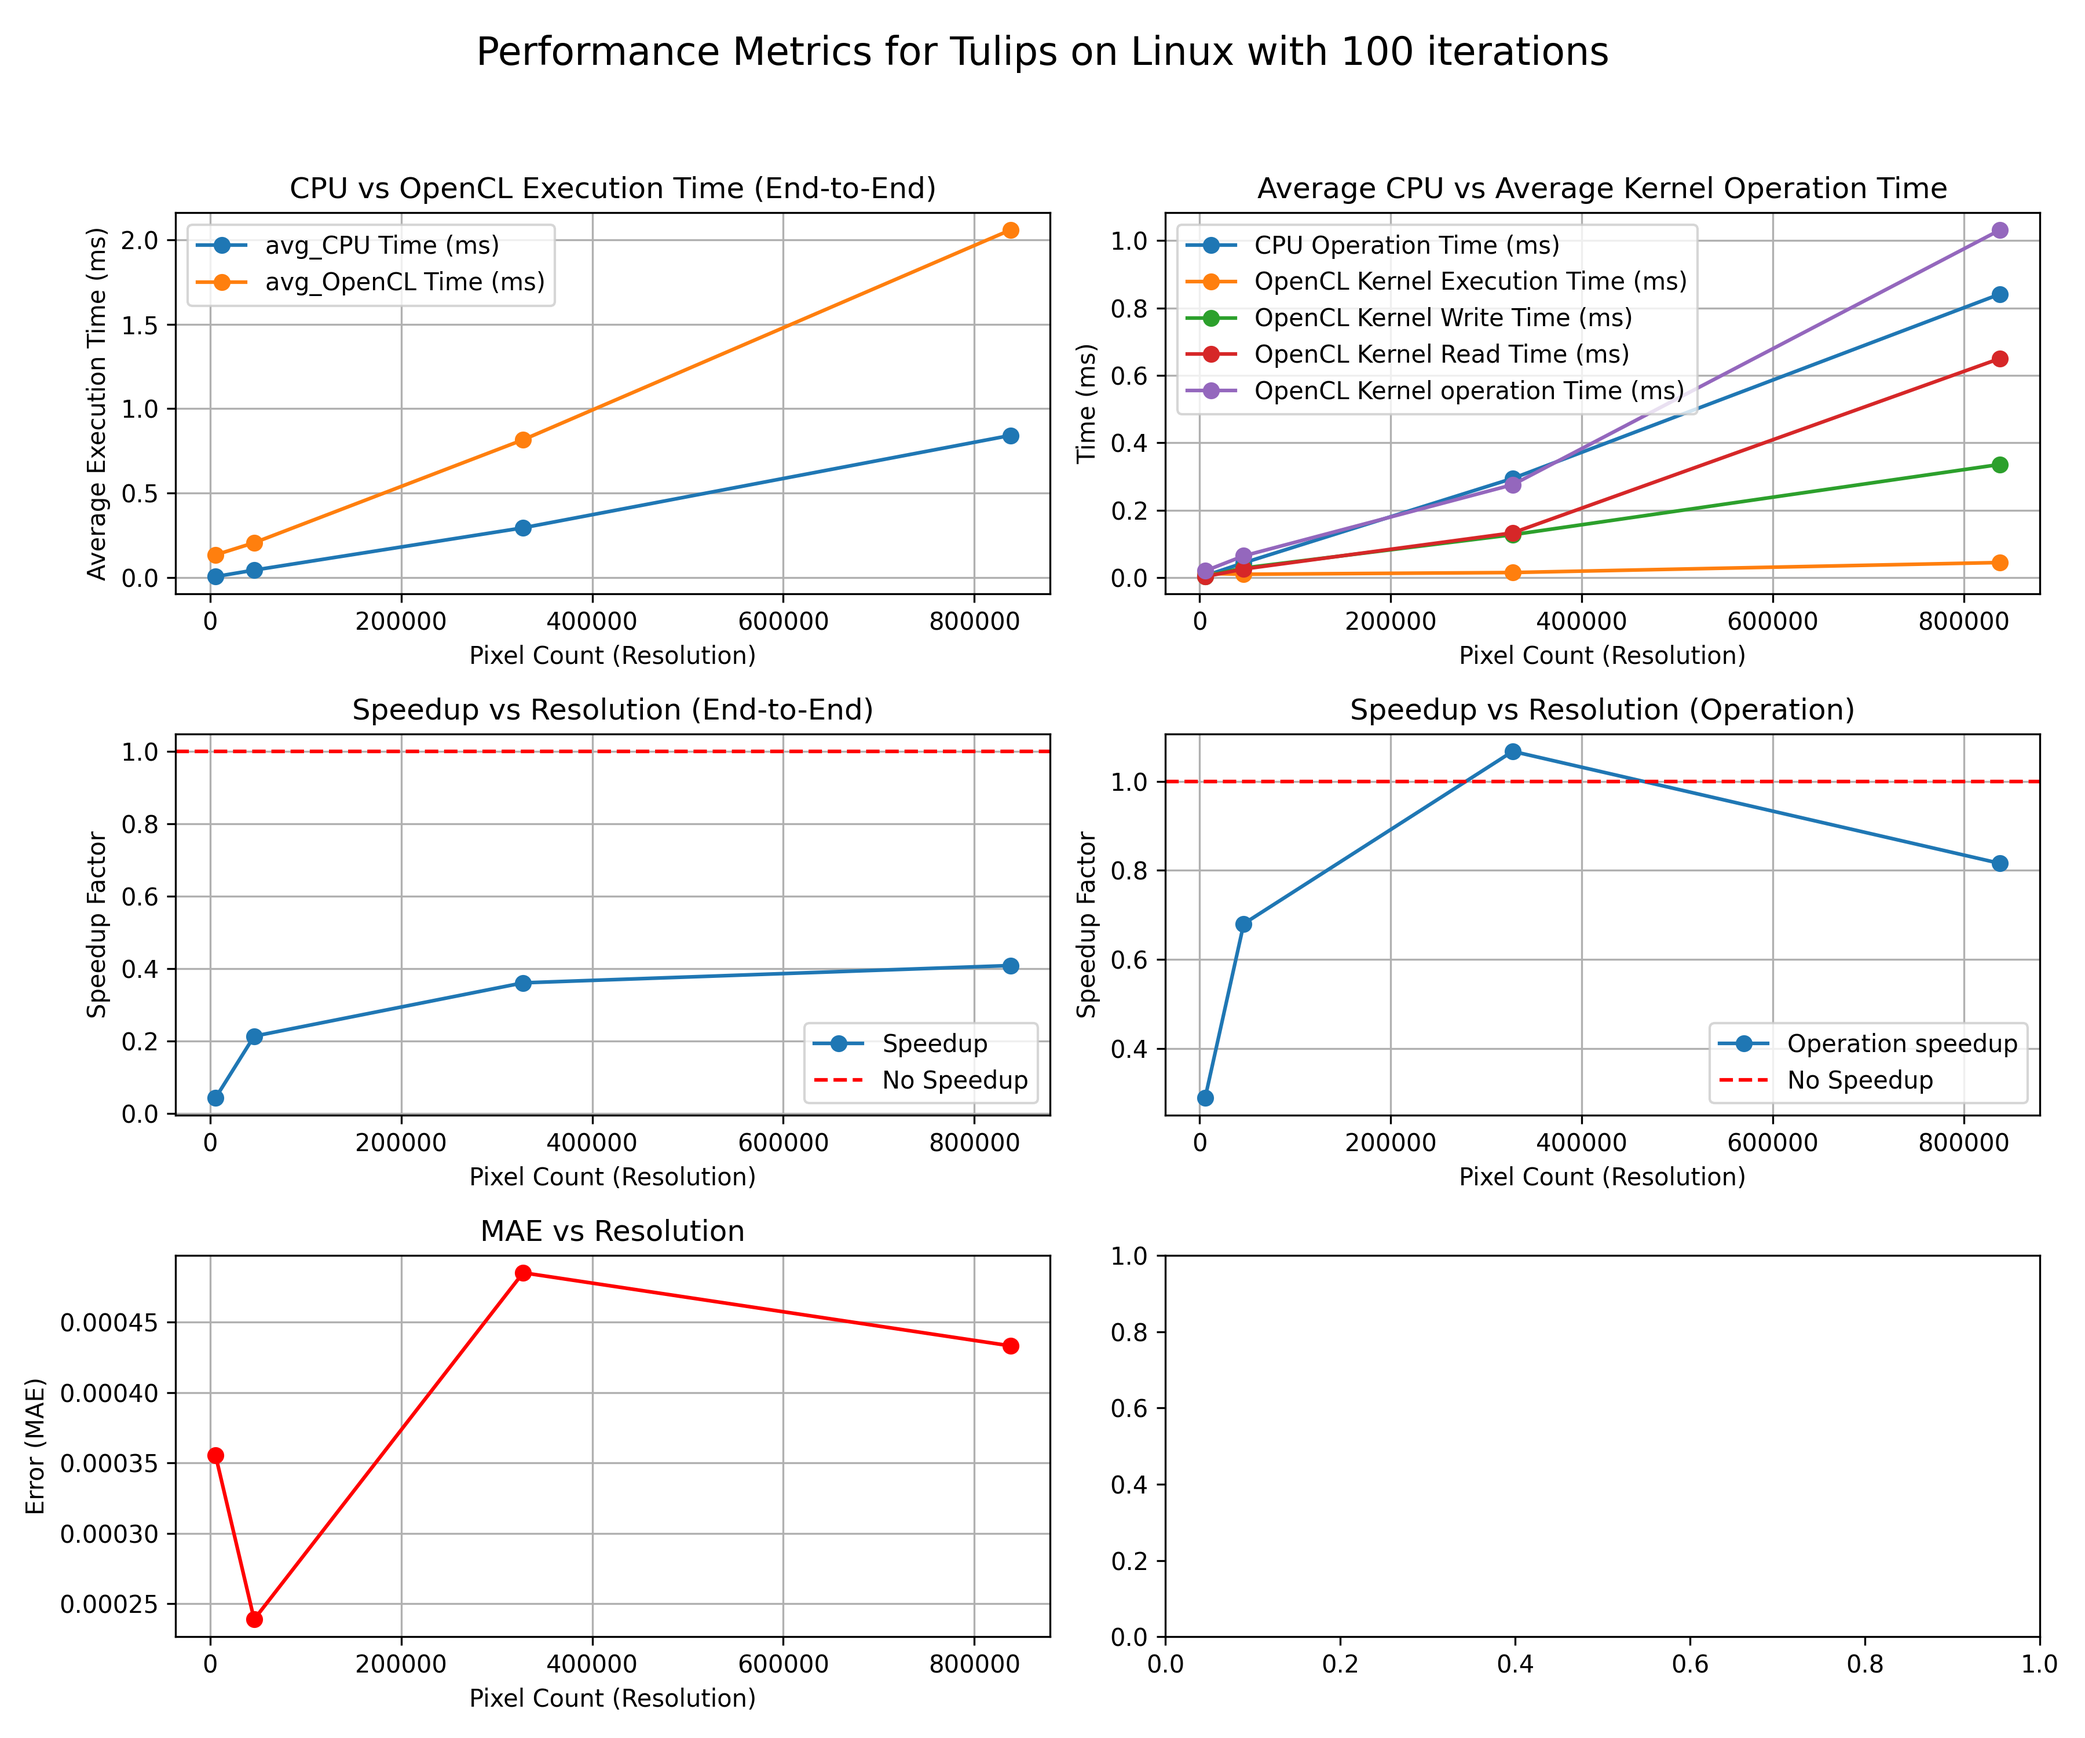
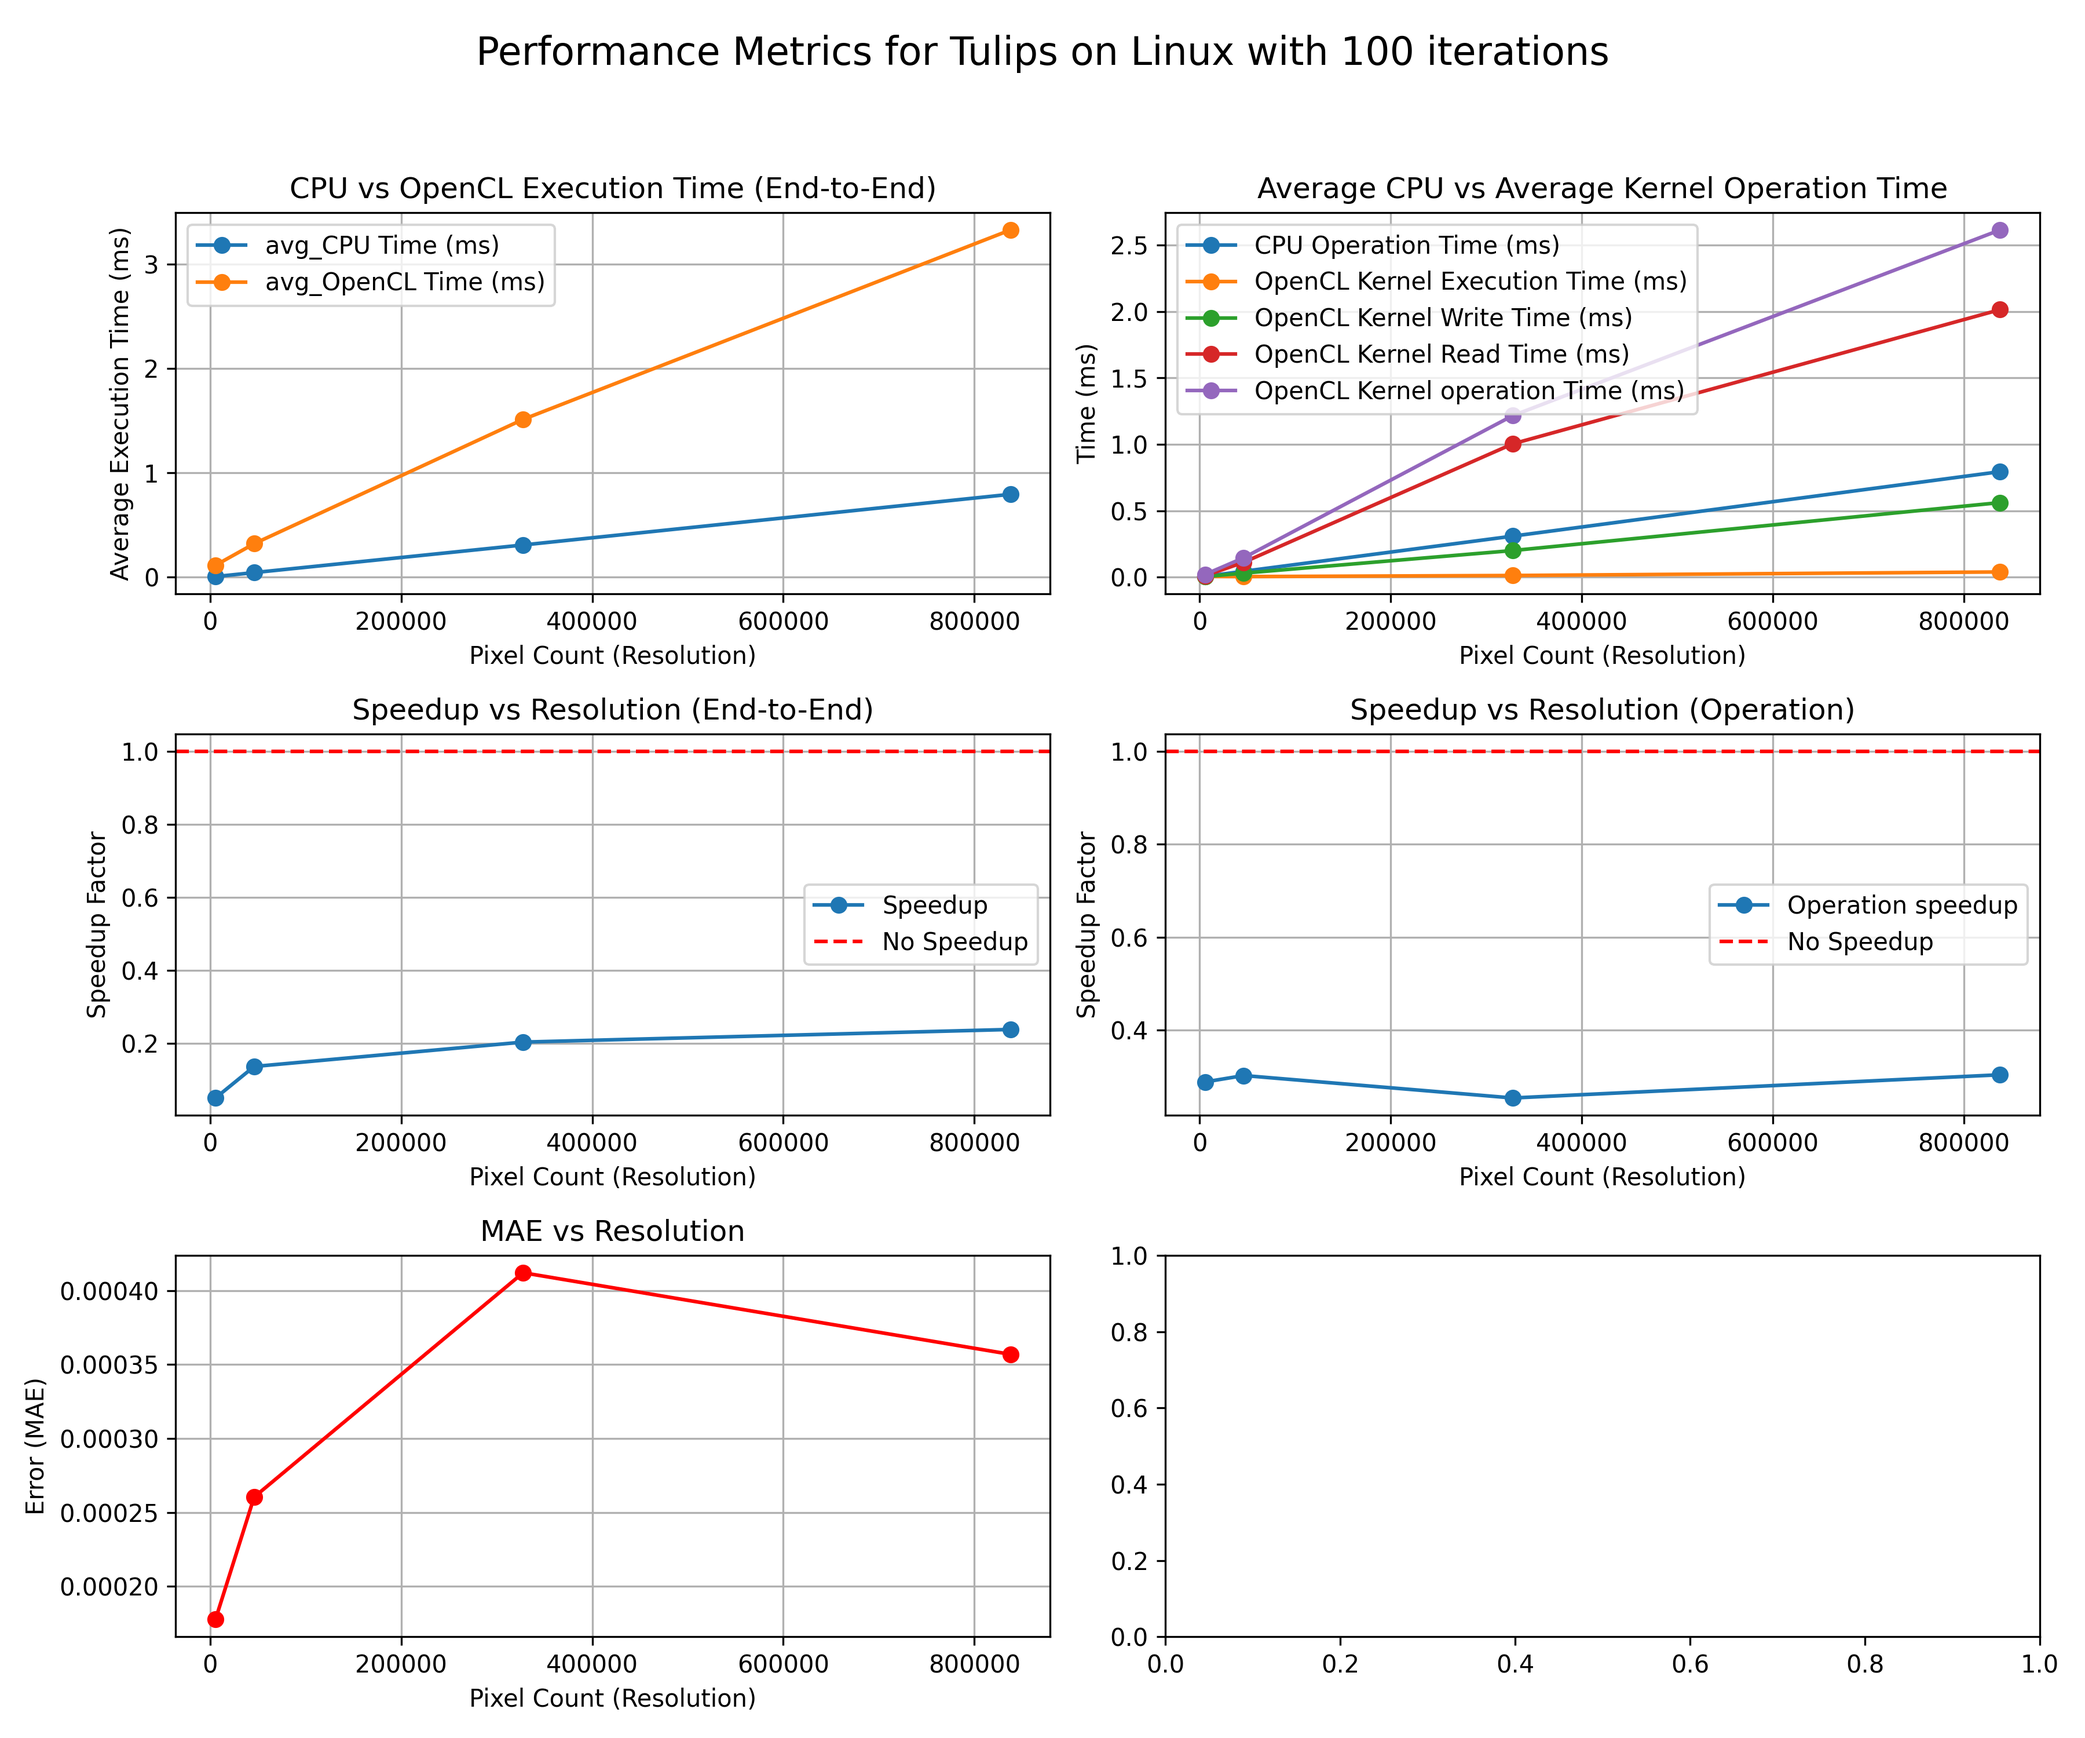
performed test on linux on Grayscale

diff --git a/src/Grayscale/grayscale.cpp b/src/Grayscale/grayscale.cpp
@@ -18,6 +18,7 @@ bool DISPLAY_IMAGES = false;
 bool DISPLAY_TERMINAL_RESULTS = true;
 
 bool LOG_EVENTS = false;
+bool BYPASS_IMAGE_SUPPORT = true;
 
 std::string IMAGES_DIRECTORY = "images/";
 std::string OUTPUT_FILE = "results.csv";
@@ -59,12 +60,25 @@ void InitOpenCL(Controller& controller, cl_context* context, cl_command_queue* c
 
     // Check device image support
     cl_bool image_support = CL_FALSE;
-    clGetDeviceInfo(devices[DEVICE_INDEX], CL_DEVICE_IMAGE_SUPPORT, sizeof(cl_bool), &image_support, nullptr);
-    if (image_support == CL_FALSE) {
+    switch (BYPASS_IMAGE_SUPPORT)
+    {
+    case false:
+        clGetDeviceInfo(devices[DEVICE_INDEX], CL_DEVICE_IMAGE_SUPPORT, sizeof(cl_bool), &image_support, nullptr);
+        if (image_support == CL_FALSE) {
+            kernel_name = "grayscale_base.cl";
+            std::cout << "Device does not support images. Using buffers instead of image2D structures." << std::endl;
+        }else{
+            std::cout << "Device supports images." << std::endl;
+        }
+        break;
+
+    case true:
         kernel_name = "grayscale_base.cl";
-        std::cout << "Device does not support images. Using buffers instead of image2D structures." << std::endl;
-    }else{
-        std::cout << "Device supports images." << std::endl;
+        std::cout << "Bypass image support is True. Using buffers instead of image2D structures." << std::endl;
+        break;
+    
+    default:
+        break;
     }
     controller.SetImageSupport(image_support);
 
